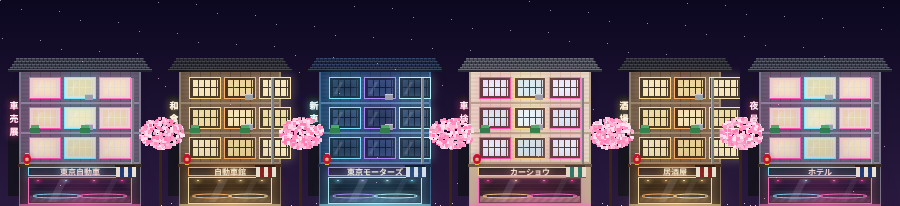
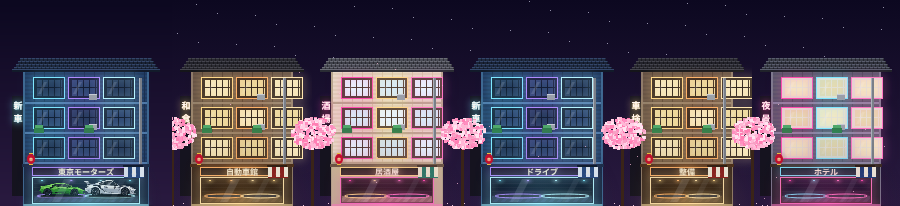
Tokyo : trottoir pavé au pied des façades, concessionnaire en haut à gauche avec son menu
Claude-Session: https://claude.ai/code/session_01DJjrJeB9qGj6LbTtabomZT

diff --git a/tokyo.js b/tokyo.js
@@ -6,10 +6,11 @@
 
 const TK={
   bati:206,                       /* le pied des façades du haut : au-dessus, rien ne marche */
+  trottoir:[206,236],             /* le trottoir, au pied des façades : on y marche */
   rangee:0, bas:900,              /* pas de rangée de boutiques */
   blocs:[],                       /* rien ne barre le passage */
   porte:null,                     /* pas d'armurerie */
-  concessionPorte:null,           /* pas de concessionnaire */
+  concessionPorte:{x:126,y0:206,y1:240,l:16},   /* la porte du concessionnaire, en haut à gauche : on se place sur le trottoir */
   sortie:{x:60,y0:296,y1:420},    /* la sortie, à l'ouest : vers le port */
   arrivee:[84,360]
 };
@@ -26,9 +27,32 @@ function construireSolTokyo(){
   const c=document.createElement('canvas');c.width=W;c.height=H;
   const g=c.getContext('2d');
   g.fillStyle='#2a2936';g.fillRect(0,0,W,H);
+  /* LE TROTTOIR, pavé comme celui du port : dalles irrégulières, joints, grain et usure */
+  const A=(i)=>alea(i*1.37+0.5);
+  const pave=['#5d5a70','#55526a','#625e78','#534f66','#5a5672'];
+  const [t0,t1]=TK.trottoir;
+  g.fillStyle='#4a4660';g.fillRect(0,t0,W,t1-t0);
+  let y=t0;
+  while(y<t1){
+    const h=6+Math.floor(A(y*1.91)*4);
+    let x=-Math.floor(A(y*0.77)*40);
+    while(x<W){
+      const w=26+Math.floor(A(x*0.31+y)*20);
+      const hh=Math.min(h,t1-y);
+      g.fillStyle=pave[Math.floor(A(x+y*3.1)*pave.length)];g.fillRect(x,y,w,hh);
+      g.fillStyle='rgba(20,16,32,.35)';g.fillRect(x,y,w,1);g.fillRect(x,y,1,hh);
+      g.fillStyle='rgba(255,255,255,.08)';g.fillRect(x+3+Math.floor(A(x*1.9+y)*(w-7)),y+2,2,1);
+      if(A(x*1.7+y)<.12){g.fillStyle='rgba(20,16,32,.3)';g.fillRect(x+3,y+2,3,1);}
+      x+=w;
+    }
+    y+=h;
+  }
+  /* la bordure du trottoir, puis la route, sombre et sans marquage */
+  g.fillStyle='#8a86a0';g.fillRect(0,t1,W,2);
+  g.fillStyle='#2a2936';g.fillRect(0,t1+2,W,H-t1-2);
   g.fillStyle='rgba(255,255,255,.03)';
-  for(let x=0;x<W;x+=50)g.fillRect(x,0,1,H);
-  for(let y=0;y<H;y+=50)g.fillRect(0,y,W,1);
+  for(let x=0;x<W;x+=50)g.fillRect(x,t1+2,1,H-t1-2);
+  for(let yy=t1+2;yy<H;yy+=50)g.fillRect(0,yy,W,1);
   /* la rangée du haut : ciel de nuit, façades japonaises collées et cerisiers */
   const haut=new Image();
   haut.onload=()=>{g.drawImage(haut,0,0);};
@@ -45,4 +69,58 @@ function poserTokyo(){
   try{sauver();}catch(x){}
 }
 
-;({TK,bloqueTokyo,construireSolTokyo,semerDecorTokyo,poserTokyo})
+/* ---------- LE CONCESSIONNAIRE : le menu du showroom, en entrant ----------
+   Le catalogue vient de assets/voitures/catalogue.json. Pas encore de prix ni
+   d'essai : les boutons le disent, rien n'est vendu tant que le prix n'est pas fixé. */
+
+function fermerConcessionTokyo(){
+  ouvrirConcessionTokyo.ouvert=false;
+  fermeA=Date.now();
+  $('page2').classList.remove('on');
+}
+
+async function ouvrirConcessionTokyo(){
+  if(ouvrirConcessionTokyo.ouvert)return;
+  ouvrirConcessionTokyo.ouvert=true;
+  $('page2Fond').className='';
+  $('page2Fond').innerHTML=
+    '<div style="padding:calc(env(safe-area-inset-top,0px) + 18px) 16px 18px;min-height:100%;box-sizing:border-box;background:#f1e8d6;font-family:Georgia,\'Times New Roman\',serif;color:#2a2236">'+
+    '<div style="display:flex;align-items:baseline;gap:12px;border-bottom:2px solid #c8413c;padding-bottom:10px">'+
+    '<span style="color:#c8413c;font-size:18px">東京展示室</span>'+
+    '<b style="font-weight:400;letter-spacing:3px;font-size:15px">SHOWROOM TOKYO</b></div>'+
+    '<div id="ccListe" style="display:flex;gap:8px;overflow-x:auto;padding:12px 0"><p style="font-style:italic;color:#7a6e60">Le vendeur sort les fiches…</p></div>'+
+    '<div id="ccFiche"></div>'+
+    '<button id="ccFermer" style="display:block;width:100%;margin-top:14px;min-height:46px;border:1px solid #2a2236;background:transparent;color:#2a2236;font:700 14px Georgia,serif;letter-spacing:1px">Sortir du showroom</button>'+
+    '<div id="ccBulle" style="margin-top:10px;min-height:18px;font-size:13px;color:#c8413c"></div></div>';
+  $('page2').classList.add('on');
+  $('ccFermer').onclick=fermerConcessionTokyo;
+  let vehicules=[];
+  try{const r=await fetch('assets/voitures/catalogue.json');vehicules=((await r.json()).vehicules)||[];}catch(x){}
+  if(!vehicules.length){$('ccListe').innerHTML='<p style="color:#c8413c">Le catalogue ne répond pas.</p>';return;}
+  const sprite=v=>{const p=(v.photos||[]).find(q=>q.role==='sprite_pixel');return p?p.fichier:'';};
+  const nomComplet=v=>[v.marque,v.modele].filter(Boolean).join(' ');
+  $('ccListe').innerHTML=vehicules.map((v,i)=>
+    '<button data-i="'+i+'" style="flex:none;width:118px;padding:8px;border:1px solid #2a223633;background:#fff8ec;cursor:pointer;text-align:left;font:inherit;color:inherit">'+
+    '<img src="'+sprite(v)+'" alt="" style="display:block;width:100%;height:auto;image-rendering:pixelated">'+
+    '<b style="display:block;font-size:12px;margin-top:6px">'+nomComplet(v)+'</b></button>').join('');
+  const fiche=i=>{
+    const v=vehicules[i];
+    $('ccFiche').innerHTML=
+      '<div style="background:radial-gradient(circle,#fff8ec 40%,#e9dcc4 100%);border-radius:50%;padding:18px 0;margin-top:4px">'+
+      '<img src="'+sprite(v)+'" alt="'+nomComplet(v)+'" style="display:block;width:70%;max-width:300px;height:auto;margin:0 auto;image-rendering:pixelated"></div>'+
+      '<h2 style="margin:12px 0 2px;font-size:20px;font-weight:400">'+nomComplet(v)+'</h2>'+
+      '<p style="margin:0;font-size:12px;color:#7a6e60">'+(v.nom_garage?'Nom garage : '+v.nom_garage:'Sans nom de garage')+'</p>'+
+      '<p style="margin:8px 0;font-size:11px;letter-spacing:1px;color:#7a6e60">'+(v.tuning?'PEINTURE · ROUES · AILERONS':'BIENTÔT AU SHOWROOM')+'</p>'+
+      '<p style="margin:10px 0 0;font-size:18px">¥ ——— <small style="font-size:11px;color:#7a6e60">prix non fixé</small></p>'+
+      '<div style="display:flex;gap:10px;margin-top:12px">'+
+      '<button id="ccEssai" style="flex:1;min-height:44px;background:none;border:1px solid #2a2236;color:#2a2236;font:700 12px Georgia,serif;letter-spacing:2px">ESSAI</button>'+
+      '<button id="ccAcheter" style="flex:1;min-height:44px;background:#c8413c;border:0;color:#fff8ec;font:700 12px Georgia,serif;letter-spacing:2px">ACHETER</button></div>';
+    $('ccEssai').onclick=()=>{$('ccBulle').textContent="L'essai n'est pas encore ouvert.";};
+    $('ccAcheter').onclick=()=>{$('ccBulle').textContent="Le concessionnaire n'a pas encore fixé de prix pour ce véhicule.";};
+  };
+  $('ccListe').querySelectorAll('button[data-i]').forEach(b=>{b.onclick=()=>fiche(+b.dataset.i);});
+  fiche(0);
+}
+
+
+;({TK,bloqueTokyo,construireSolTokyo,semerDecorTokyo,poserTokyo,ouvrirConcessionTokyo,fermerConcessionTokyo})
